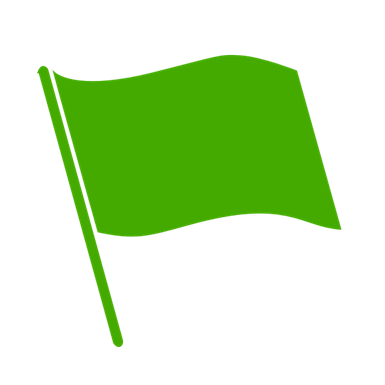
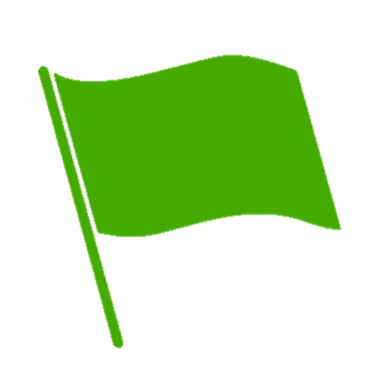
Rebranding CatScript

diff --git a/src/app/components/CodeEditor.tsx b/src/app/components/CodeEditor.tsx
@@ -653,7 +653,7 @@ export default function CodeEditor() {
             {/* First Load Name Modal */}
             <ProjectNameModal
                 isOpen={showFirstLoadNameModal && isFirstLoad}
-                title="Welcome to Scratch Compiler!"
+                title="Welcome to CatScript Playground!"
                 message="Enter a name for your project:"
                 defaultValue="My Project"
                 onConfirm={handleFirstLoadNameConfirm}
@@ -661,9 +661,19 @@ export default function CodeEditor() {
             />
 
             {/* Header */}
-            <div className="bg-gray-800 px-4 py-3 flex justify-between items-center border-b border-gray-700">
+            <div className="bg-gray-800 px-4 py-2 flex justify-between items-center border-b border-gray-700">
                 <div className="flex items-center gap-4">
-                    <h1 className="text-white font-bold text-lg">🐱 Scratch Compiler</h1>
+                    <div className="flex items-center gap-2">
+                        <img 
+                            src="/logo.png" 
+                            alt="CatScript" 
+                            className="h-9 w-auto"
+                        />
+                        <div className="flex flex-col justify-center">
+                            <h1 className="text-white font-bold text-lg leading-tight">CatScript Playground</h1>
+                            <span className="text-gray-500 text-[10px] leading-tight">Program in Scratch like a pro</span>
+                        </div>
+                    </div>
                     <span className="text-gray-400 text-sm">|</span>
                     
                     {/* Editable Project Name */}
@@ -740,6 +750,26 @@ export default function CodeEditor() {
                 {/* Left sidebar - Toolbox with color-coded categories */}
                 {showToolbox && (
                     <div className="w-64 bg-gray-900 border-r border-gray-700 flex flex-col overflow-hidden">
+                        {/* Toolbox scrollbar styles */}
+                        <style>{`
+                            .toolbox-scroll::-webkit-scrollbar {
+                                width: 6px;
+                            }
+                            .toolbox-scroll::-webkit-scrollbar-track {
+                                background: transparent;
+                            }
+                            .toolbox-scroll::-webkit-scrollbar-thumb {
+                                background: #4b5563;
+                                border-radius: 3px;
+                            }
+                            .toolbox-scroll::-webkit-scrollbar-thumb:hover {
+                                background: #6b7280;
+                            }
+                            .toolbox-scroll {
+                                scrollbar-width: thin;
+                                scrollbar-color: #4b5563 transparent;
+                            }
+                        `}</style>
                         <div className="bg-gray-800 px-3 py-2 text-gray-300 text-sm border-b border-gray-700 font-medium flex items-center justify-between">
                             <span>Toolbox</span>
                             <button
@@ -749,7 +779,7 @@ export default function CodeEditor() {
                                 ×
                             </button>
                         </div>
-                        <div className="flex-1 overflow-y-auto">
+                        <div className="toolbox-scroll flex-1 overflow-y-auto">
                             {toolboxCategories.map((category) => (
                                 <div key={category.name} className="border-b border-gray-800">
                                     {/* Category Header */}
@@ -806,21 +836,13 @@ export default function CodeEditor() {
                         onRenameSprite={handleRenameSprite}
                         onDeleteSprite={handleDeleteSprite}
                         onDuplicateSprite={handleDuplicateSprite}
+                        showToolbox={showToolbox}
+                        onToggleToolbox={() => setShowToolbox(!showToolbox)}
                     />
                     
                     {/* Editor Label */}
-                    <div className="bg-gray-800 px-3 py-2 text-gray-400 text-sm border-b border-gray-700 flex justify-between items-center">
+                    <div className="bg-gray-800 px-3 py-2 text-gray-400 text-sm border-b border-gray-700">
                         <span>📝 {activeSprite?.name || "Scratch Code"}</span>
-                        <Tooltip content={showToolbox ? "Hide Toolbox" : "Show Toolbox"}>
-                            <button
-                                onClick={() => setShowToolbox(!showToolbox)}
-                                className={`text-xs px-2 py-1 rounded ${
-                                    showToolbox ? "bg-gray-600 text-white" : "text-gray-500 hover:text-gray-300"
-                                }`}
-                            >
-                                🧰
-                            </button>
-                        </Tooltip>
                     </div>
                     
                     {/* Monaco Editor */}

diff --git a/src/templates/htmlTemplate.ts b/src/templates/htmlTemplate.ts
@@ -7,7 +7,7 @@ export function generateHTMLTemplate(jsCode: string): string {
 <head>
     <meta charset="UTF-8">
     <meta name="viewport" content="width=device-width, initial-scale=1.0">
-    <title>Scratch Preview</title>
+    <title>CatScript Preview</title>
     <style>
         * {
             box-sizing: border-box;
@@ -47,35 +47,28 @@ export function generateHTMLTemplate(jsCode: string): string {
             align-items: center;
             justify-content: center;
             transition: all 0.15s;
+            background: transparent;
         }
         .control-btn:hover {
-            transform: scale(1.05);
+            transform: scale(1.1);
         }
         .control-btn:active {
             transform: scale(0.95);
         }
         
-        .flag-btn {
-            background-color: #4CAF50;
-        }
-        .flag-btn:hover {
-            background-color: #45a049;
-        }
-        
-        .stop-btn {
-            background-color: #e53935;
-        }
-        .stop-btn:hover {
-            background-color: #c62828;
+        .flag-btn img, .stop-btn img {
+            width: 32px;
+            height: 32px;
+            object-fit: contain;
         }
         
         .fullscreen-btn {
-            background-color: #5c6bc0;
-            font-size: 16px;
+            font-size: 18px;
             margin-left: auto;
+            color: #666;
         }
         .fullscreen-btn:hover {
-            background-color: #3f51b5;
+            color: #333;
         }
         
         #stage-wrapper {
@@ -229,15 +222,18 @@ export function generateHTMLTemplate(jsCode: string): string {
             display: none;
         }
         body.fullscreen .fullscreen-btn {
-            background-color: #e53935;
+            color: #e53935;
+        }
+        body.fullscreen .fullscreen-btn:hover {
+            color: #ff5252;
         }
     </style>
 </head>
 <body>
     <div class="stage-container">
         <div class="controls">
-            <button id="flag-btn" class="control-btn flag-btn" title="Run program">🚩</button>
-            <button id="stop-btn" class="control-btn stop-btn" title="Stop and Reset">🛑</button>
+            <button id="flag-btn" class="control-btn flag-btn" title="Run program"><img src="/flag.png" alt="Run"></button>
+            <button id="stop-btn" class="control-btn stop-btn" title="Stop and Reset"><img src="/stop.png" alt="Stop"></button>
             <button id="fullscreen-btn" class="control-btn fullscreen-btn" title="Toggle Fullscreen">⛶</button>
         </div>
         <div id="stage-wrapper">
@@ -246,7 +242,7 @@ export function generateHTMLTemplate(jsCode: string): string {
                     <!-- Sprites go here -->
                 </div>
                 <div id="stage-overlay">
-                    <div class="icon">🚩</div>
+                    <div class="icon"><img src="/flag.png" width="50" height="50" alt="Run"></div>
                     <div class="message">Click the green flag to run</div>
                 </div>
             </div>

diff --git a/src/app/components/FileTabs.tsx b/src/app/components/FileTabs.tsx
@@ -15,6 +15,8 @@ interface FileTabsProps {
     onRenameSprite: (id: string, newName: string) => void;
     onDeleteSprite: (id: string) => void;
     onDuplicateSprite: (id: string) => void;
+    showToolbox: boolean;
+    onToggleToolbox: () => void;
 }
 
 export default function FileTabs({
@@ -25,6 +27,8 @@ export default function FileTabs({
     onRenameSprite,
     onDeleteSprite,
     onDuplicateSprite,
+    showToolbox,
+    onToggleToolbox,
 }: FileTabsProps) {
     const [editingId, setEditingId] = useState<string | null>(null);
     const [editingName, setEditingName] = useState("");
@@ -131,6 +135,19 @@ export default function FileTabs({
                 className="file-tabs-container flex items-center bg-gray-800 border-b border-gray-700 overflow-x-auto flex-shrink-0"
                 style={{ minHeight: '40px' }}
             >
+                {/* Toolbox Toggle Button */}
+                <Tooltip content={showToolbox ? "Hide Toolbox" : "Show Toolbox"}>
+                    <button
+                        onClick={onToggleToolbox}
+                        className={`flex-shrink-0 px-2 py-2 border-r border-gray-700 transition-colors ${
+                            showToolbox ? "text-yellow-400" : "text-gray-500 hover:text-gray-300"
+                        }`}
+                        title={showToolbox ? "Hide Toolbox" : "Show Toolbox"}
+                    >
+                        <span className="text-sm">🧰</span>
+                    </button>
+                </Tooltip>
+
                 {/* Stage/Backdrop Tab (always first) */}
                 {backdrop && (
                     <div

diff --git a/src/types/projectTypes.ts b/src/types/projectTypes.ts
@@ -47,8 +47,8 @@ export const BACKDROP_ID = "backdrop_stage";
 export const BACKDROP_NAME = "Stage";
 
 // Default initial code for new sprites - an engaging demo that moves and talks
-export const DEFAULT_SPRITE_CODE = `// Welcome to Scratch Compiler! 🐱
-// Click the green "Run" button to see this code in action
+export const DEFAULT_SPRITE_CODE = `// Welcome to CatScript Playground! 🐱
+// Click the green flag to see this code in action
 
 when flagClicked
     say "Hello! Watch me dance!"

diff --git a/src/lib/codeEditorConfig.ts b/src/lib/codeEditorConfig.ts
@@ -1476,8 +1476,8 @@ export const languageSelector = (monacoInstance: typeof monaco): languages.Compl
     };
 };
 
-export const initialCode = `// Welcome to Scratch Compiler! 🐱
-// Click the green "Run" button to see this code in action
+export const initialCode = `// Welcome to CatScript Playground! 🐱
+// Click the green flag to see this code in action
 
 when flagClicked
     say "Hello! I'm going to dance!"

diff --git a/src/app/layout.tsx b/src/app/layout.tsx
@@ -13,8 +13,8 @@ const geistMono = Geist_Mono({
 });
 
 export const metadata: Metadata = {
-    title: "Scratch Compiler",
-    description: "Generated by create next app",
+    title: "CatScript Playground",
+    description: "Program in Scratch like a pro - A text-based Scratch coding environment for kids",
 };
 
 export default function RootLayout({

diff --git a/src/app/support/page.tsx b/src/app/support/page.tsx
@@ -2,7 +2,7 @@ import type { Metadata } from "next";
 import Link from "next/link";
 
 export const metadata: Metadata = {
-    title: "Help & Support - Scratch Compiler",
+    title: "Help & Support - CatScript Playground",
     description: "Learn how Scratch Compiler saves and manages your projects",
 };
 

diff --git a/README.md b/README.md
@@ -1,12 +1,14 @@
-# Scratch Text Compiler
+# CatScript Playground 🐱
+
+*Program in Scratch like a pro*
 
 [https://scratch-compiler.vercel.app/](https://scratch-compiler.vercel.app/)
 
-A web-based compiler that transforms text-based Scratch-like syntax into executable JavaScript. Built with Next.js and Monaco Editor.
+A fun, text-based coding playground for kids who love Scratch! Write Scratch programs using simple text commands and see them come to life in the browser.
 
 ## 🎯 Overview
 
-This project provides a text-based alternative to Scratch's visual block programming. Write Scratch programs using a clean, readable syntax and compile them to JavaScript that runs in the browser.
+CatScript Playground is the perfect next step for kids who've mastered Scratch blocks and want to learn real coding. It uses the same familiar Scratch concepts (sprites, motion, looks, events) but with text-based syntax that feels like \"real\" programming.
 
 ### Features
 
@@ -366,14 +368,14 @@ myBlock "Hello" 50
 
 ### Complete Working Example
 
-This example demonstrates motion, speech, loops, and keyboard controls. It's the default code shown when you first open the compiler:
+This example demonstrates motion, speech, loops, and keyboard controls. It's the default code shown when you first open CatScript Playground:
 
 ```scratch
-// Welcome to Scratch Compiler! 🐱
-// Click the green "Run" button to see this code in action
+// Welcome to CatScript Playground! 🐱
+// Click the green flag to see this code in action
 
 when flagClicked
-    say "Hello! Watch me dance!"
+    say \"Hello! Watch me dance!\"
     wait 1
     repeat 4
         move 50
